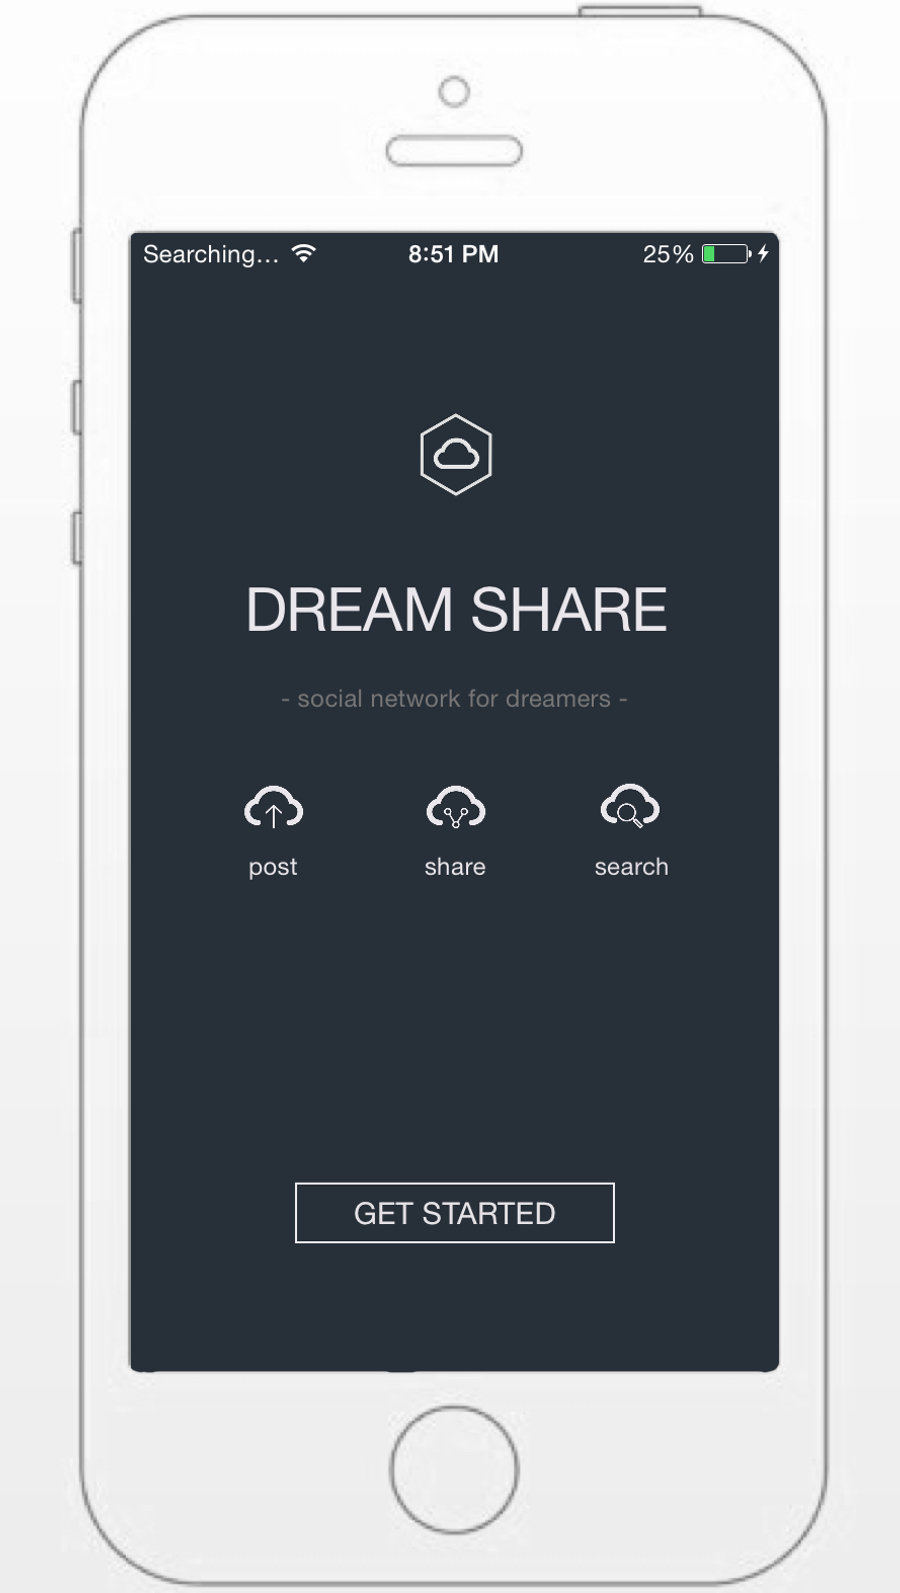
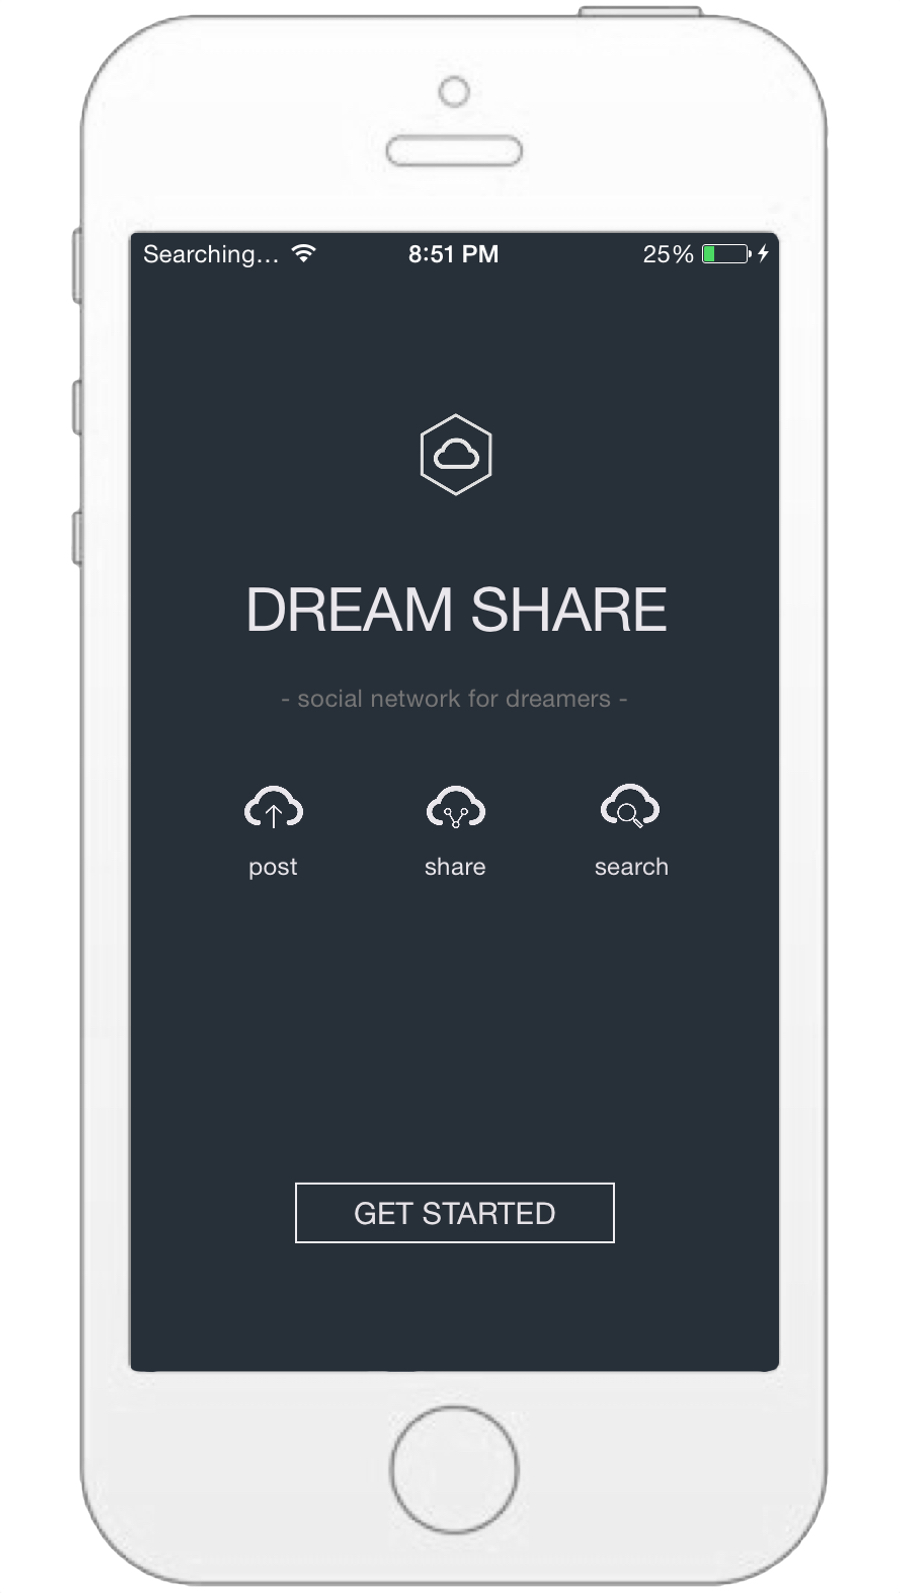
iphone images cleaned

diff --git a/index.html b/index.html
@@ -105,6 +105,9 @@
 			<div id="strandedinspace-icon">
 				<a href="https://itunes.apple.com/us/app/stranded-in-space/id914320132?"><img src="https://raw.githubusercontent.com/lynneokada/website/master/images/sis/strandedinspaceIcon120x120.png" alt="strandedinspace-icon" align="left" width="100px" height="100px" style="border-radius:25%"></a>
 			</div>
+			<div id="strandedinspace-image1">
+				<img src="https://raw.githubusercontent.com/lynneokada/website/master/images/sis/strandedinspace-image1.jpg" alt="strandedinspace image1" align="right" width="500px" height="285px">
+			</div>
 			<div id="strandedinspace"><a href="https://itunes.apple.com/us/app/stranded-in-space/id914320132?"><b>STRANDED IN SPACE</b></a>
 				<div id="strandedinspace-content">
 					iOS game created during the 2014 MakeSchool Summer Academy<br>
@@ -123,7 +126,7 @@
 					cocos2d game engine. Instead of adding a "force", or a numerical value to<br>
 					the known velocity of the astronaut, I update the position per frame<br>
 					depending on the direction and magnitude of the tilt. This gives the<br>
-					player better control and smoother mobility of the astronaut.<br>
+					player better control and smoother mobility of the astronaut.<br><br>
 
 					I absolutely enjoy creating games that force players to multitask.<br>
 

diff --git a/css/styles.css b/css/styles.css
@@ -213,6 +213,10 @@ body {
   padding-left:300px;
 }
 
+#strandedinspace-image1 {
+  margin-top:100px;
+}
+
 #strandedinspace-icon {
   margin-left:150px;
   margin-top:100px;
